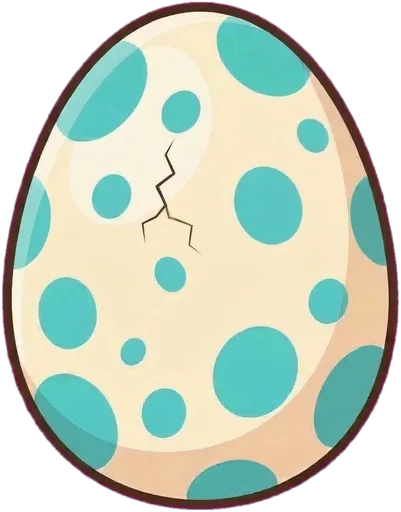
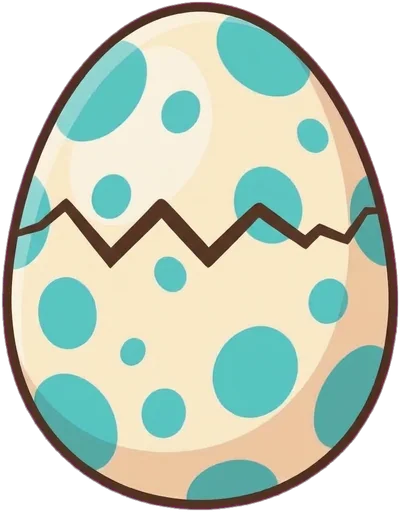
feat(egg): the owner's cracked egg picture for egg 5's first crack
Claude-Session: https://claude.ai/code/session_01MAZwqXWLUTgcNfMT4NfuL7

diff --git a/assets-src/PROMPTS.md b/assets-src/PROMPTS.md
@@ -601,7 +601,7 @@ BG is `magenta color (#FF00FF)` unless the table says `green`, then use `green c
 | `obj-egg.jpg` | a big oval dragon egg, cream with turquoise spots, front view | magenta |
 | `obj-egg-cracking.jpg` | (redone 2026-10-31: the old one had eyes) **attach `obj-egg-plain.jpg`**, "redraw ... in exactly the same drawing style": the egg half cracked, a big jagged zigzag crack around its middle, the upper shell slightly lifted and tilted, a thin warm golden light out of the crack, two or three small shell chips; NO face, NO eyes, nothing peeking out | magenta |
 | `obj-egg-plain.jpg` | (redone 2026-11-08, so it matches the cracked and the hatched shell) **attach `obj-egg-cracking.jpg`**: "redraw the attached cracked dragon egg in exactly the same drawing style, outline, shading, colours, size, position and shape (the same cream egg with the same turquoise spots in the same places), but whole and undamaged: no crack at all, no gap, no light, no lifted shell, no shell chips on the ground; where the crack was, the cream shell with turquoise spots simply continues. NO face, NO eyes", front view | magenta |
-| `obj-egg-crack.jpg` | (2026-11-08, egg 5 at half the spell) **attach `obj-egg-cracking.jpg`**: as `obj-egg-plain.jpg`, but "the egg is still whole and closed: there is only one thin fine crack, a short delicate zigzag line on the upper part of the shell, no gap, no light coming out, no lifted shell, no shell chips on the ground. NO face, NO eyes, nothing peeking out" | magenta |
+| `obj-egg-crack.jpg` | (2026-11-08, egg 5 at half the spell; the owner's own picture in use: one clear dark zigzag crack across the middle, closed, no light) **attach `obj-egg-cracking.jpg`**: as `obj-egg-plain.jpg`, but "the egg is still whole and closed: there is only one thin fine crack, a short delicate zigzag line on the upper part of the shell, no gap, no light coming out, no lifted shell, no shell chips on the ground. NO face, NO eyes, nothing peeking out" | magenta |
 | `obj-stump.jpg` | a short round tree stump with a small mushroom | magenta |
 | `obj-rock-round.jpg` | a smooth round grey rock with a small tuft of grass | magenta |
 | `obj-mole.jpg` | a friendly mole peeking out of a small dirt hole, waving with one paw, front view | magenta |
